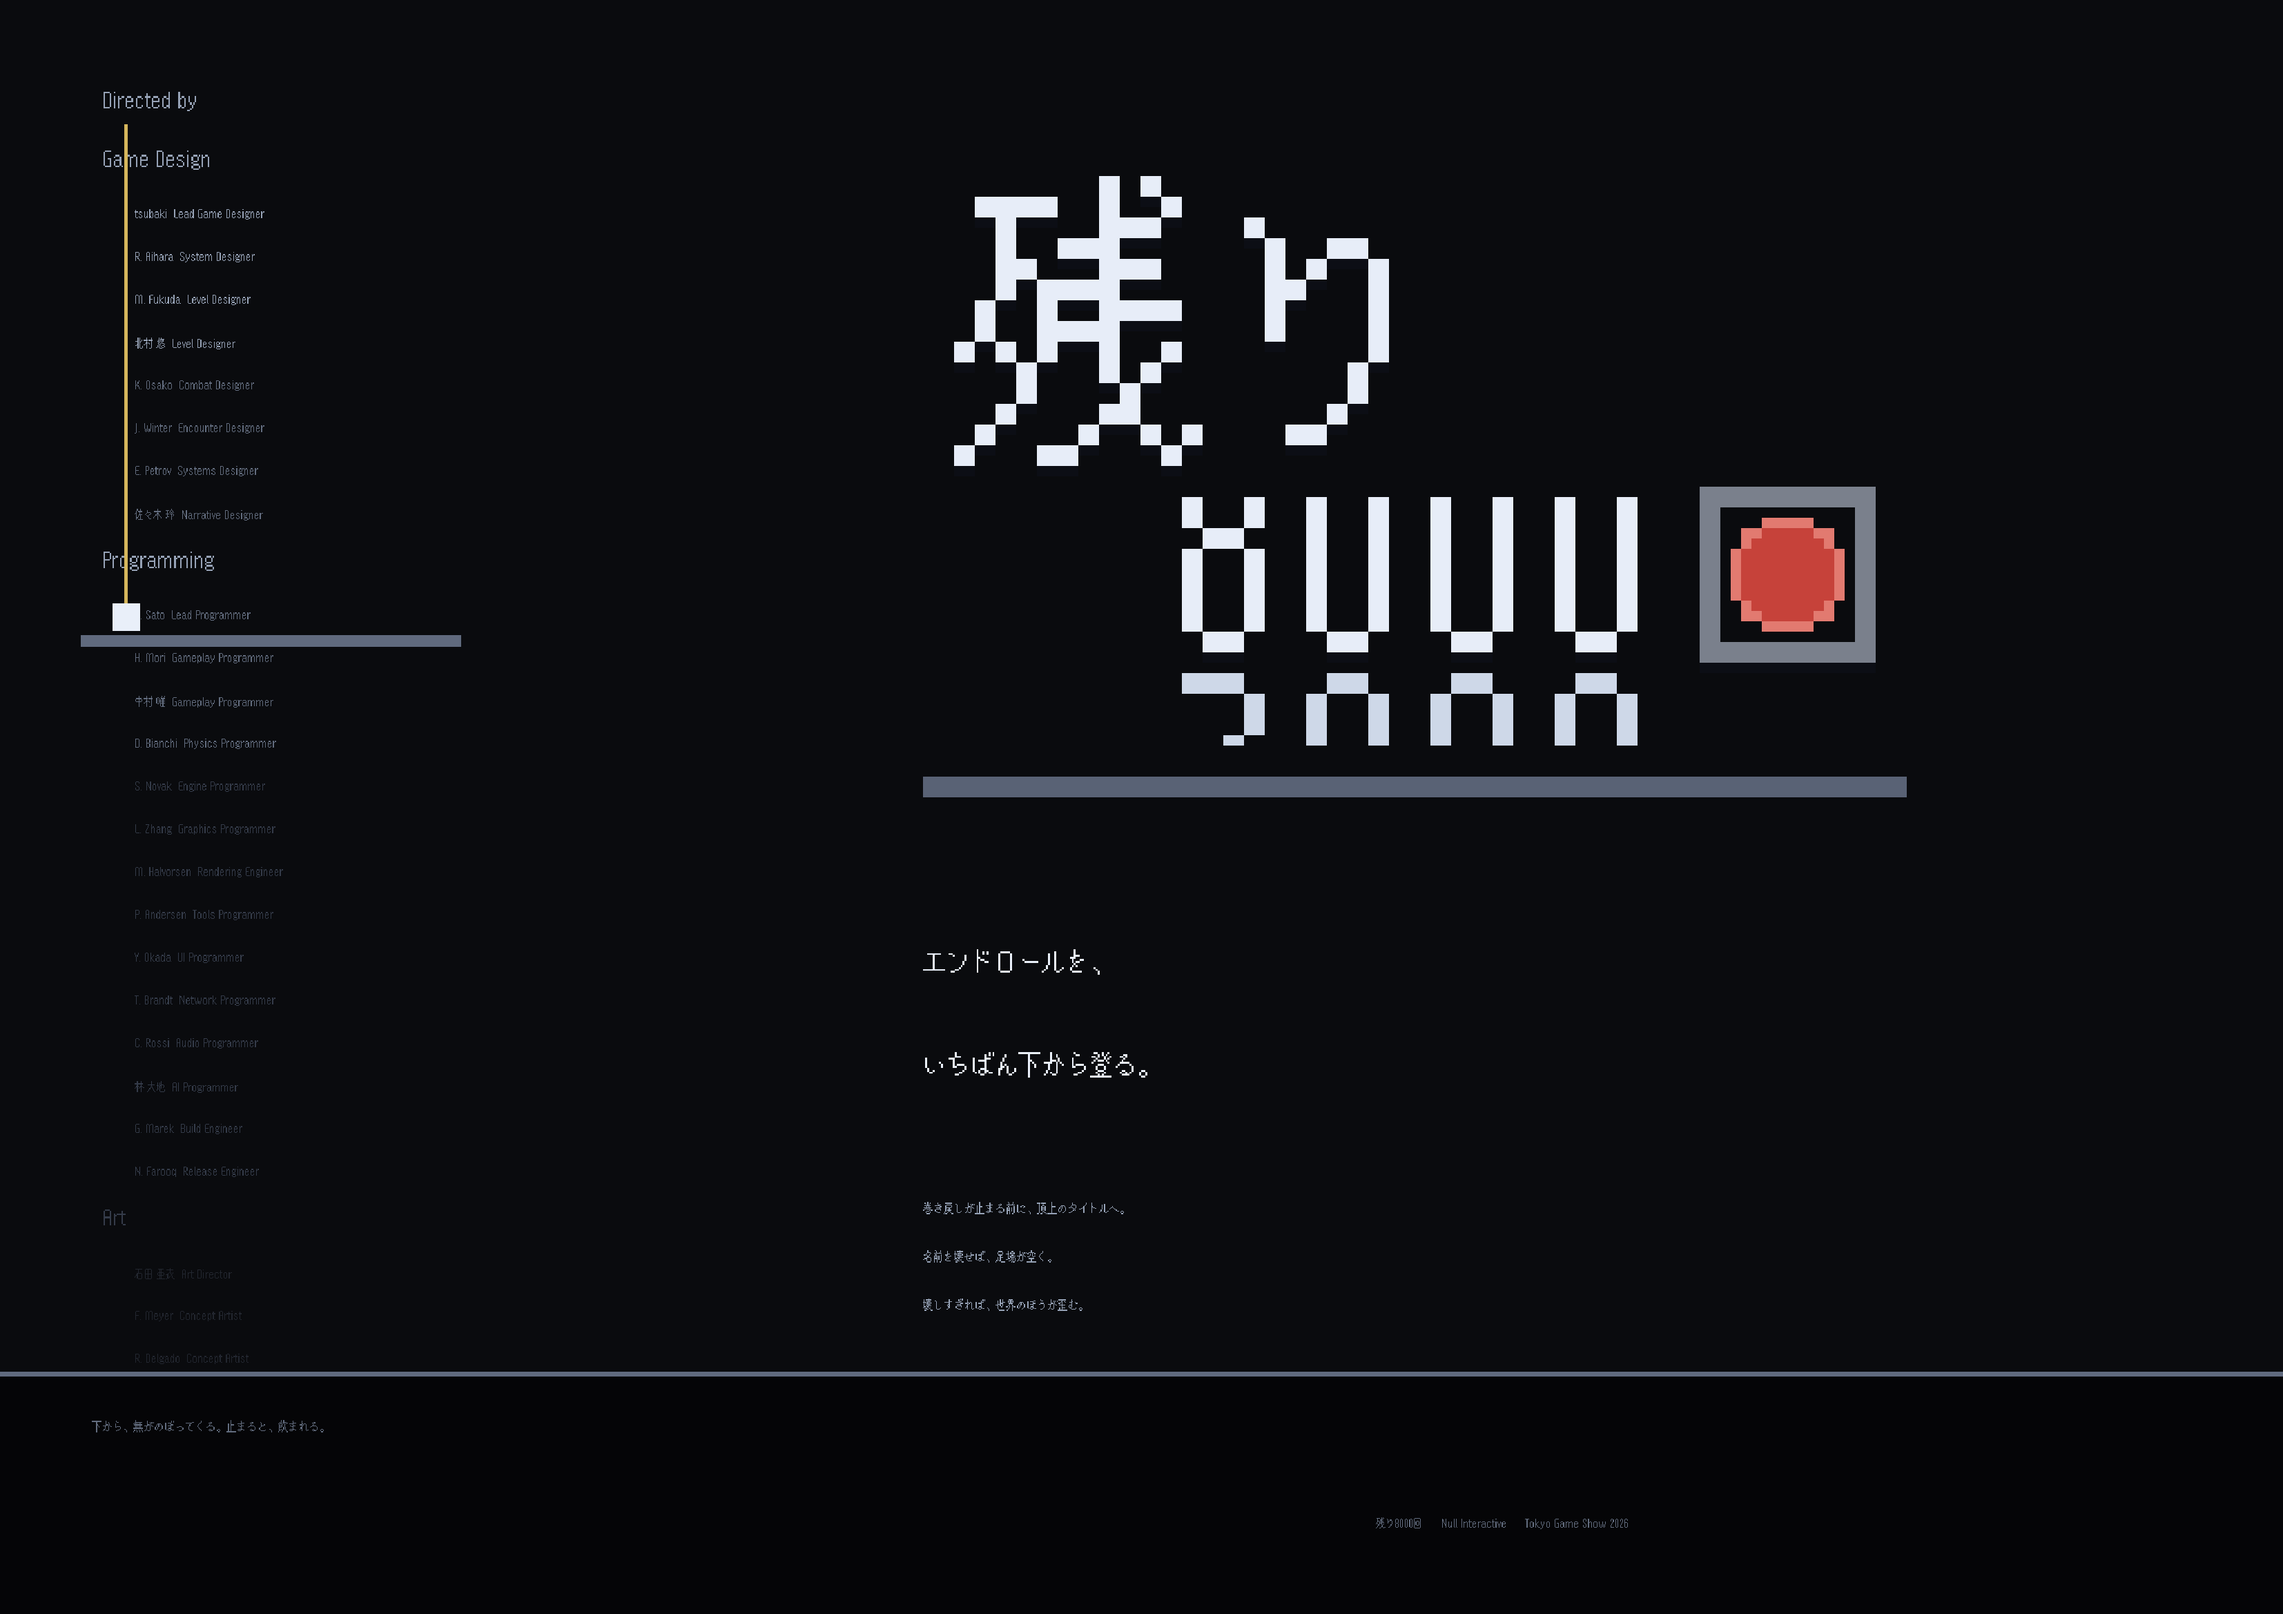
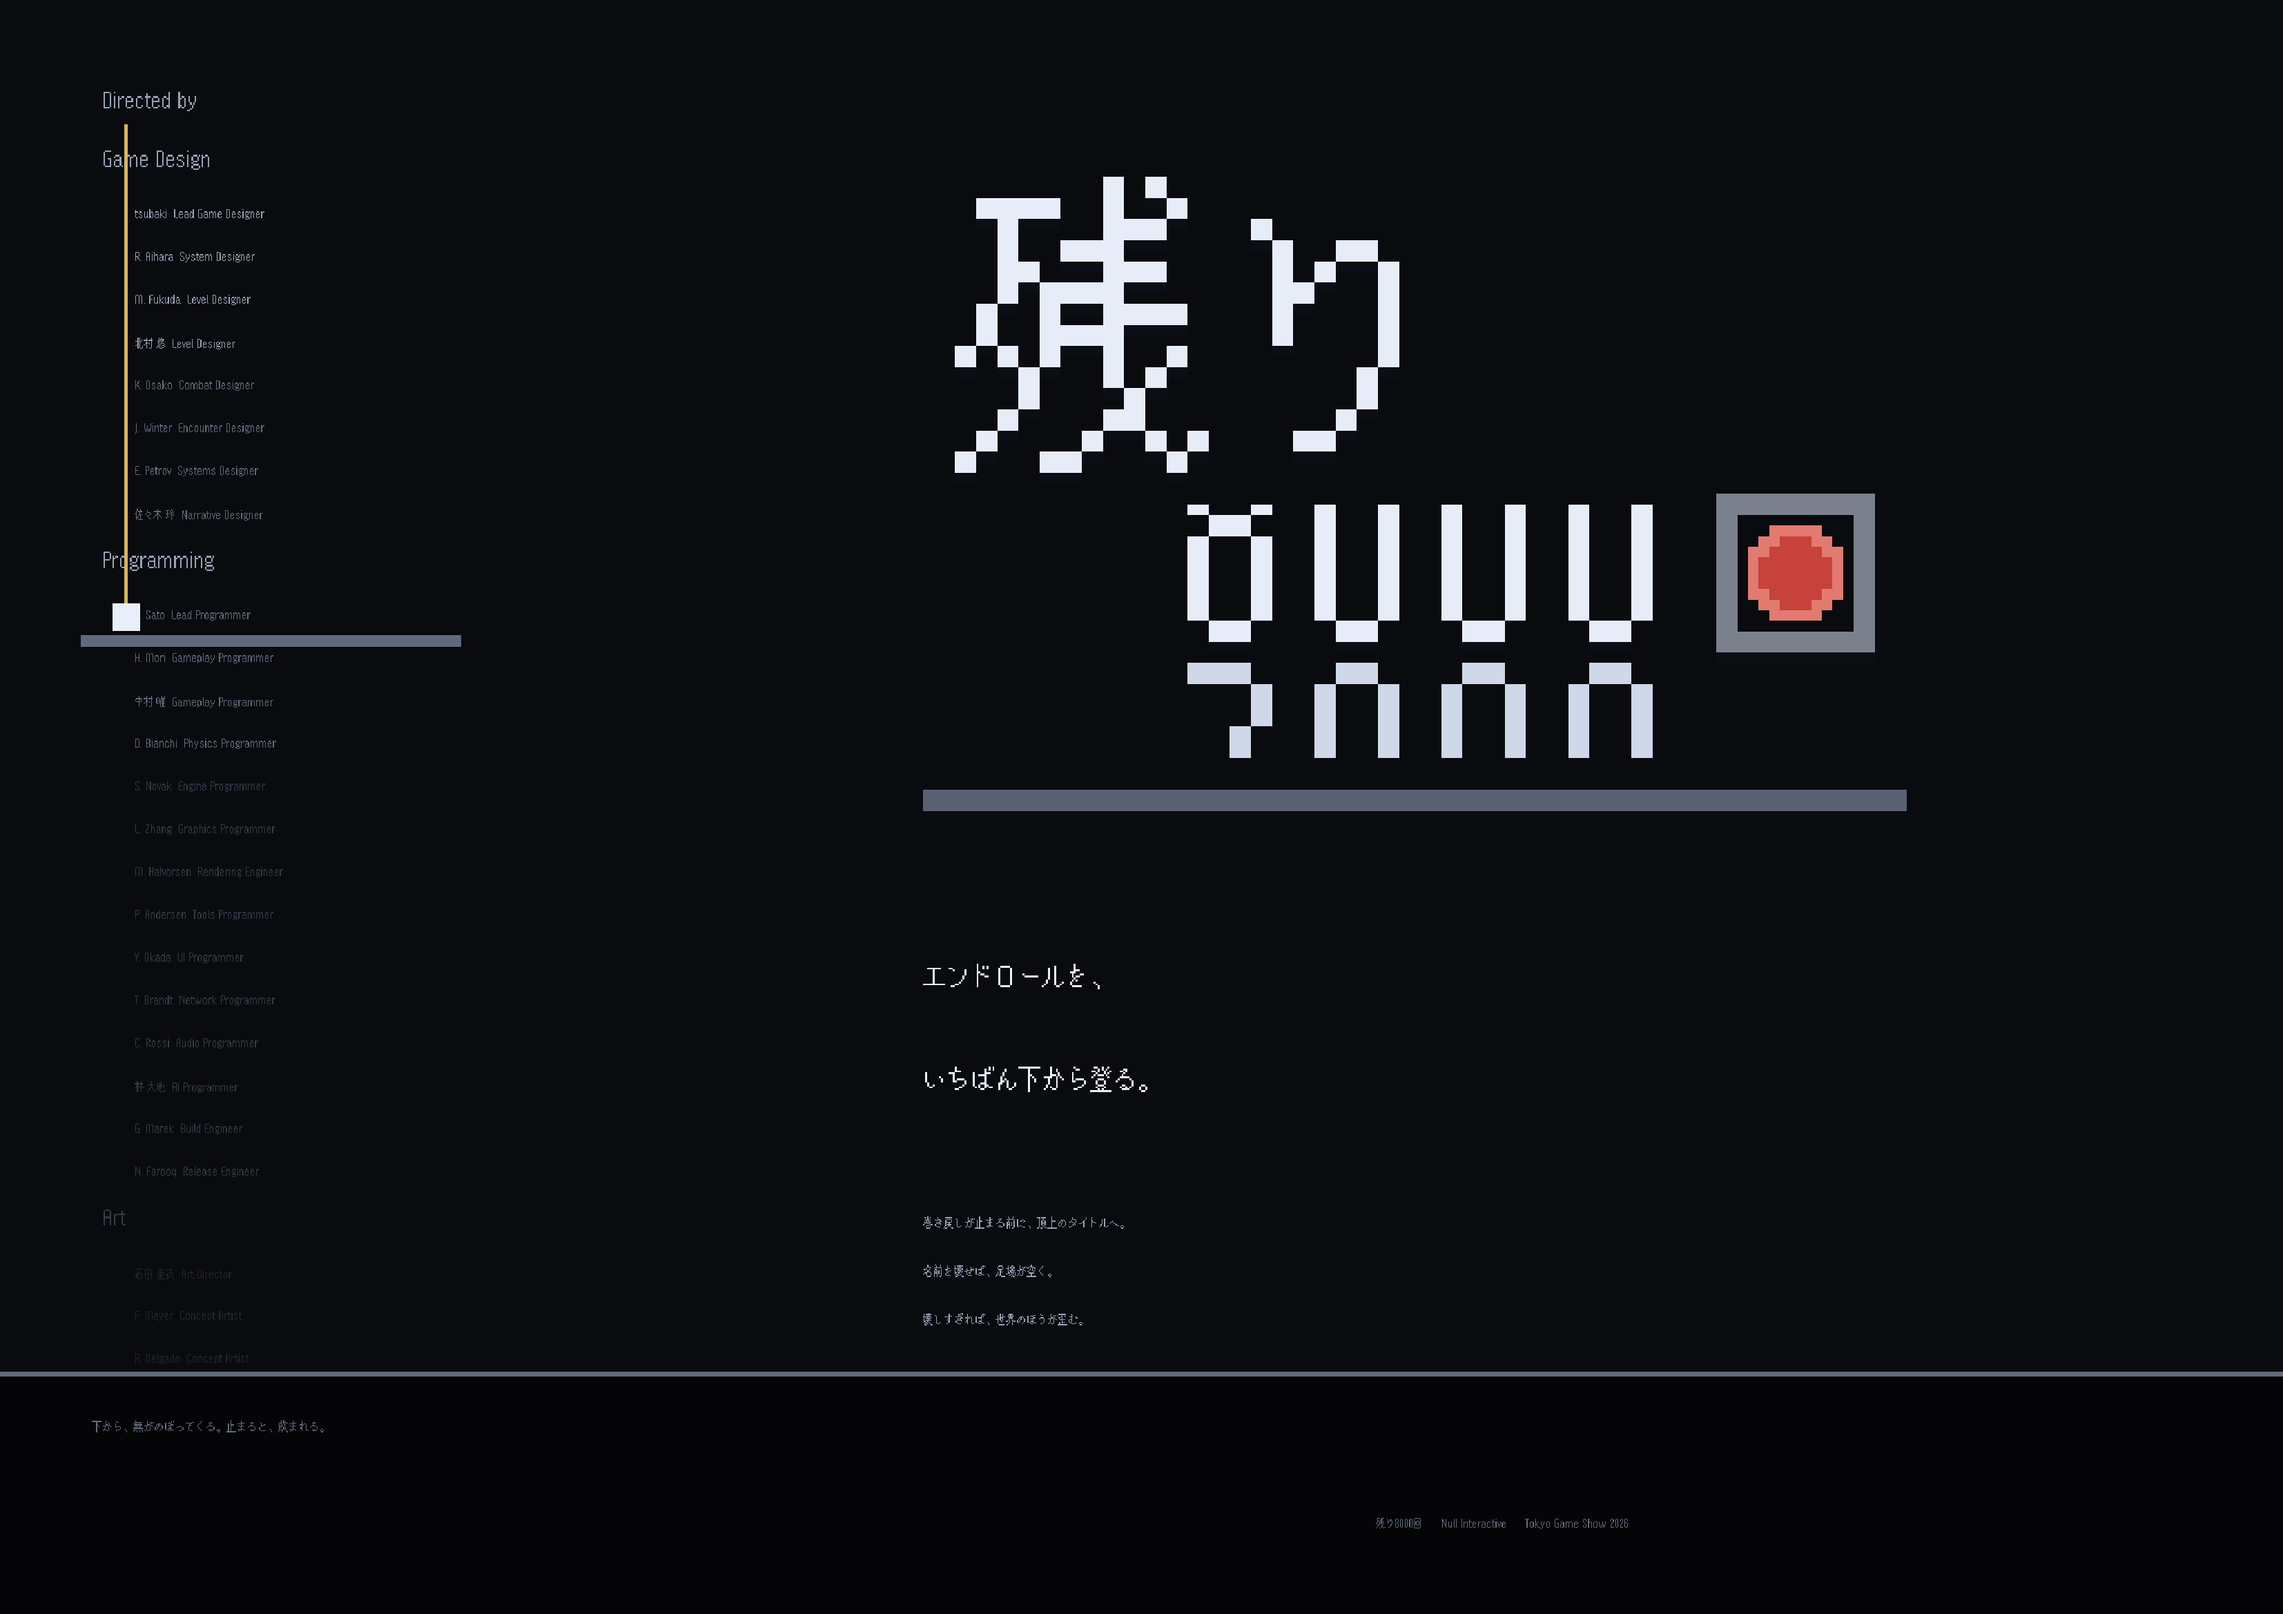
ロゴ比率変更(8000=3/5 / 7999=2/5)+ スタンドアロン配布ビルド
- make_logo.py: CUT 0.30→0.40。8000 は下3/5・7999 は上2/5 を表示。
  logo.png 再生成(285x204)、Title.unity のロゴ scale を追従、A3/A4 も再生成。
- ProjectSettings: productName「残り8000回」/ companyName「Null Interactive」。
- Release ビルド(Builds/dist、.gitignore 対象)で単体起動を確認。0 err/warn、
  player.log 例外なし。同梱 readme + zip をユーザーへ送付。

Claude-Session: https://claude.ai/code/session_01JFj4tKBzi9fAPtCjeR3gUc

diff --git a/scripts/make_logo.py b/scripts/make_logo.py
@@ -3,10 +3,10 @@
 
 構成:
   1段目 : 残り
-  2段目 : [8000(下2/3を上に押し上げ)] [2px] [7999(上1/3)]  回(ボタン)
+  2段目 : [8000(下3/5を上に押し上げ)] [2px] [7999(上2/5)]  回(ボタン)
 
-  「8000」は下から 2/3 だけ描いて 1/3 ぶん上へ押し上げる。空いた下 1/3 に
-  「7999」の上 1/3 を 2px あけて置く。= オドメーターが回っている途中の見た目
+  「8000」は下から 3/5 だけ描いて 2/5 ぶん上へ押し上げる。空いた下 2/5 に
+  「7999」の上 2/5 を 2px あけて置く。= オドメーターが回っている途中の見た目
   = 「残り回数が 1 減った瞬間」。
 
   「回」は文字ではなく "上から見た押しボタン": 灰色の四角 + 中央に赤い丸。
@@ -31,7 +31,7 @@ OUT = os.path.join(_ROOT, "Assets", "Art", "logo.png")
 NATIVE = 32          # ラスタライズ画素
 SCALE = 3            # 拡大率
 MARGIN = 4           # 余白(ドット)
-CUT = 0.30           # 上を隠す割合(≈ 1/3)。8000 は下 (1-CUT)、7999 は上 CUT。
+CUT = 0.40           # 上を隠す割合(= 2/5)。8000 は下 3/5(1-CUT)、7999 は上 2/5(CUT)。
 ROLL_GAP = 2         # 8000 と 7999 の間(ドット)= 「2pix」
 LINE_GAP = 3         # 1段目と2段目の間
 BTN_GAP = 4          # 数字とボタンの間

diff --git a/NIGHT_SHIFT.md b/NIGHT_SHIFT.md
@@ -498,7 +498,22 @@
   - Main: tiles=402 / GateSeal=7 / missingScript=0 / SabotageDirector・AudioManager・WallL/R・NoiseCanvas・Hiss すべて存在。console error/warning=0。
 - ⚠ FB8 ロゴの数字はやはり抽象的(8000/7999 の上下を切るため「8UUU / コ¬¬¬」に見える)。ユーザー反応待ちのまま。
 
+### 済(2026-09-09 14:25頃) — FB10: ロゴ比率変更 + スタンドアロン配布ビルド
+- **FB10a「8000を3/5・7999を2/5に」**: `make_logo.py` の `CUT` を 0.30→0.40。
+  8000 は下 3/5 だけ描いて 2/5 上げ、空いた下 2/5 に 7999 の上 2/5(2px あけ)。
+  logo.png 再生成(285x204)。Title.unity のロゴ scale を新幅に合わせ 0.4154 に。
+  A3/A4 提出物も新ロゴで再生成。
+- **FB10b「Unity 無しで開けるゲームの形に」**:
+  - ProjectSettings: productName「残り8000回」/ companyName「Null Interactive」。
+  - Release ビルド(development=false / LZ4)→ `Builds/dist/残り8000回/残り8000回.exe`。
+    95.23MB / 0 error 0 warning。単体起動 player.log クリーン(例外・shader fallback なし)。
+  - `はじめにお読みください.txt`(操作・内容・動作環境)を同梱。
+  - `Builds/dist/残り8000回_win64.zip`(43.5MB)にまとめてユーザーへ送付。
+  - ※ Builds/ は .gitignore 対象。zip/exe は git に入れない。
+- ⚠ ロゴの数字はカットが深くなり さらに抽象的(「8UUU / コ¬¬¬」寄り)。ユーザー確認待ち。
+
 ### 次にやること
-1. 提出物(A3/A4 = `print/poster_a3.png` `print/howto_a4.png`)のユーザーFB → 構図・文言の調整。
-2. タイトルロゴ(FB8 = `Assets/Art/logo.png`)のユーザーFB → 数字カットを浅く / 末尾1桁だけロール / 数字を大きく など微調整 or 別案。
-3. 1・2 が来ない場合: BGM/SE の逆再生・歪みの実機聴取(ユーザーのみ可能)を依頼。
+1. 新ロゴ(3/5・2/5)のユーザーFB → OK なら確定 / NG なら数字を大きく等の別案。
+2. 配布 zip の起動確認フィードバック(ユーザー実機)。
+3. 提出物(A3/A4)の構図・文言 FB。
+4. BGM/SE の逆再生・歪みの実機聴取(ユーザーのみ可能)を依頼。
